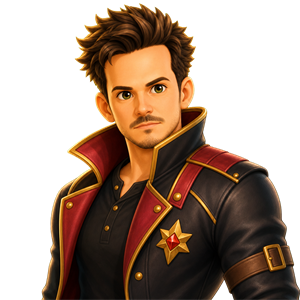
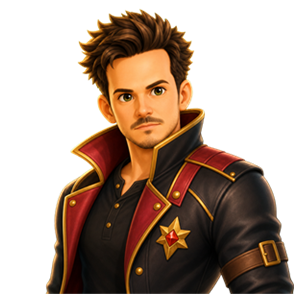
Remove basedcode and update some chars.

Changed region(s): [[0.12, 0.0, 1.0, 1.0], [0.57, 0.45, 0.6, 0.48], [0.33, 0.75, 0.36, 0.78]]

diff --git a/src/data/streamers.ts b/src/data/streamers.ts
@@ -87,7 +87,6 @@ const names = [
   "ZiggyDLive",
   "xara",
   "mee_shell",
-  "BasedCode",
   "Kwoli",
   "MakoFukasame",
   "Bubbell",
@@ -115,6 +114,7 @@ const names = [
   "OPEN SLOT 13",
   "OPEN SLOT 14",
   "OPEN SLOT 15",
+  "OPEN SLOT 16",
 ];
 
 const streamerAssets: Partial<Record<string, StreamerAssets>> = {
@@ -305,10 +305,6 @@ const streamerAssets: Partial<Record<string, StreamerAssets>> = {
     image: "/streamers/mee_shell.png",
     profileUrl: "https://www.twitch.tv/mee_shell",
     twitchHandle: "mee_shell",
-  },
-  BasedCode: {
-    profileUrl: "https://www.twitch.tv/basedcode",
-    twitchHandle: "basedcode",
   },
   Kwoli: {
     image: "/streamers/kwoli.png",
